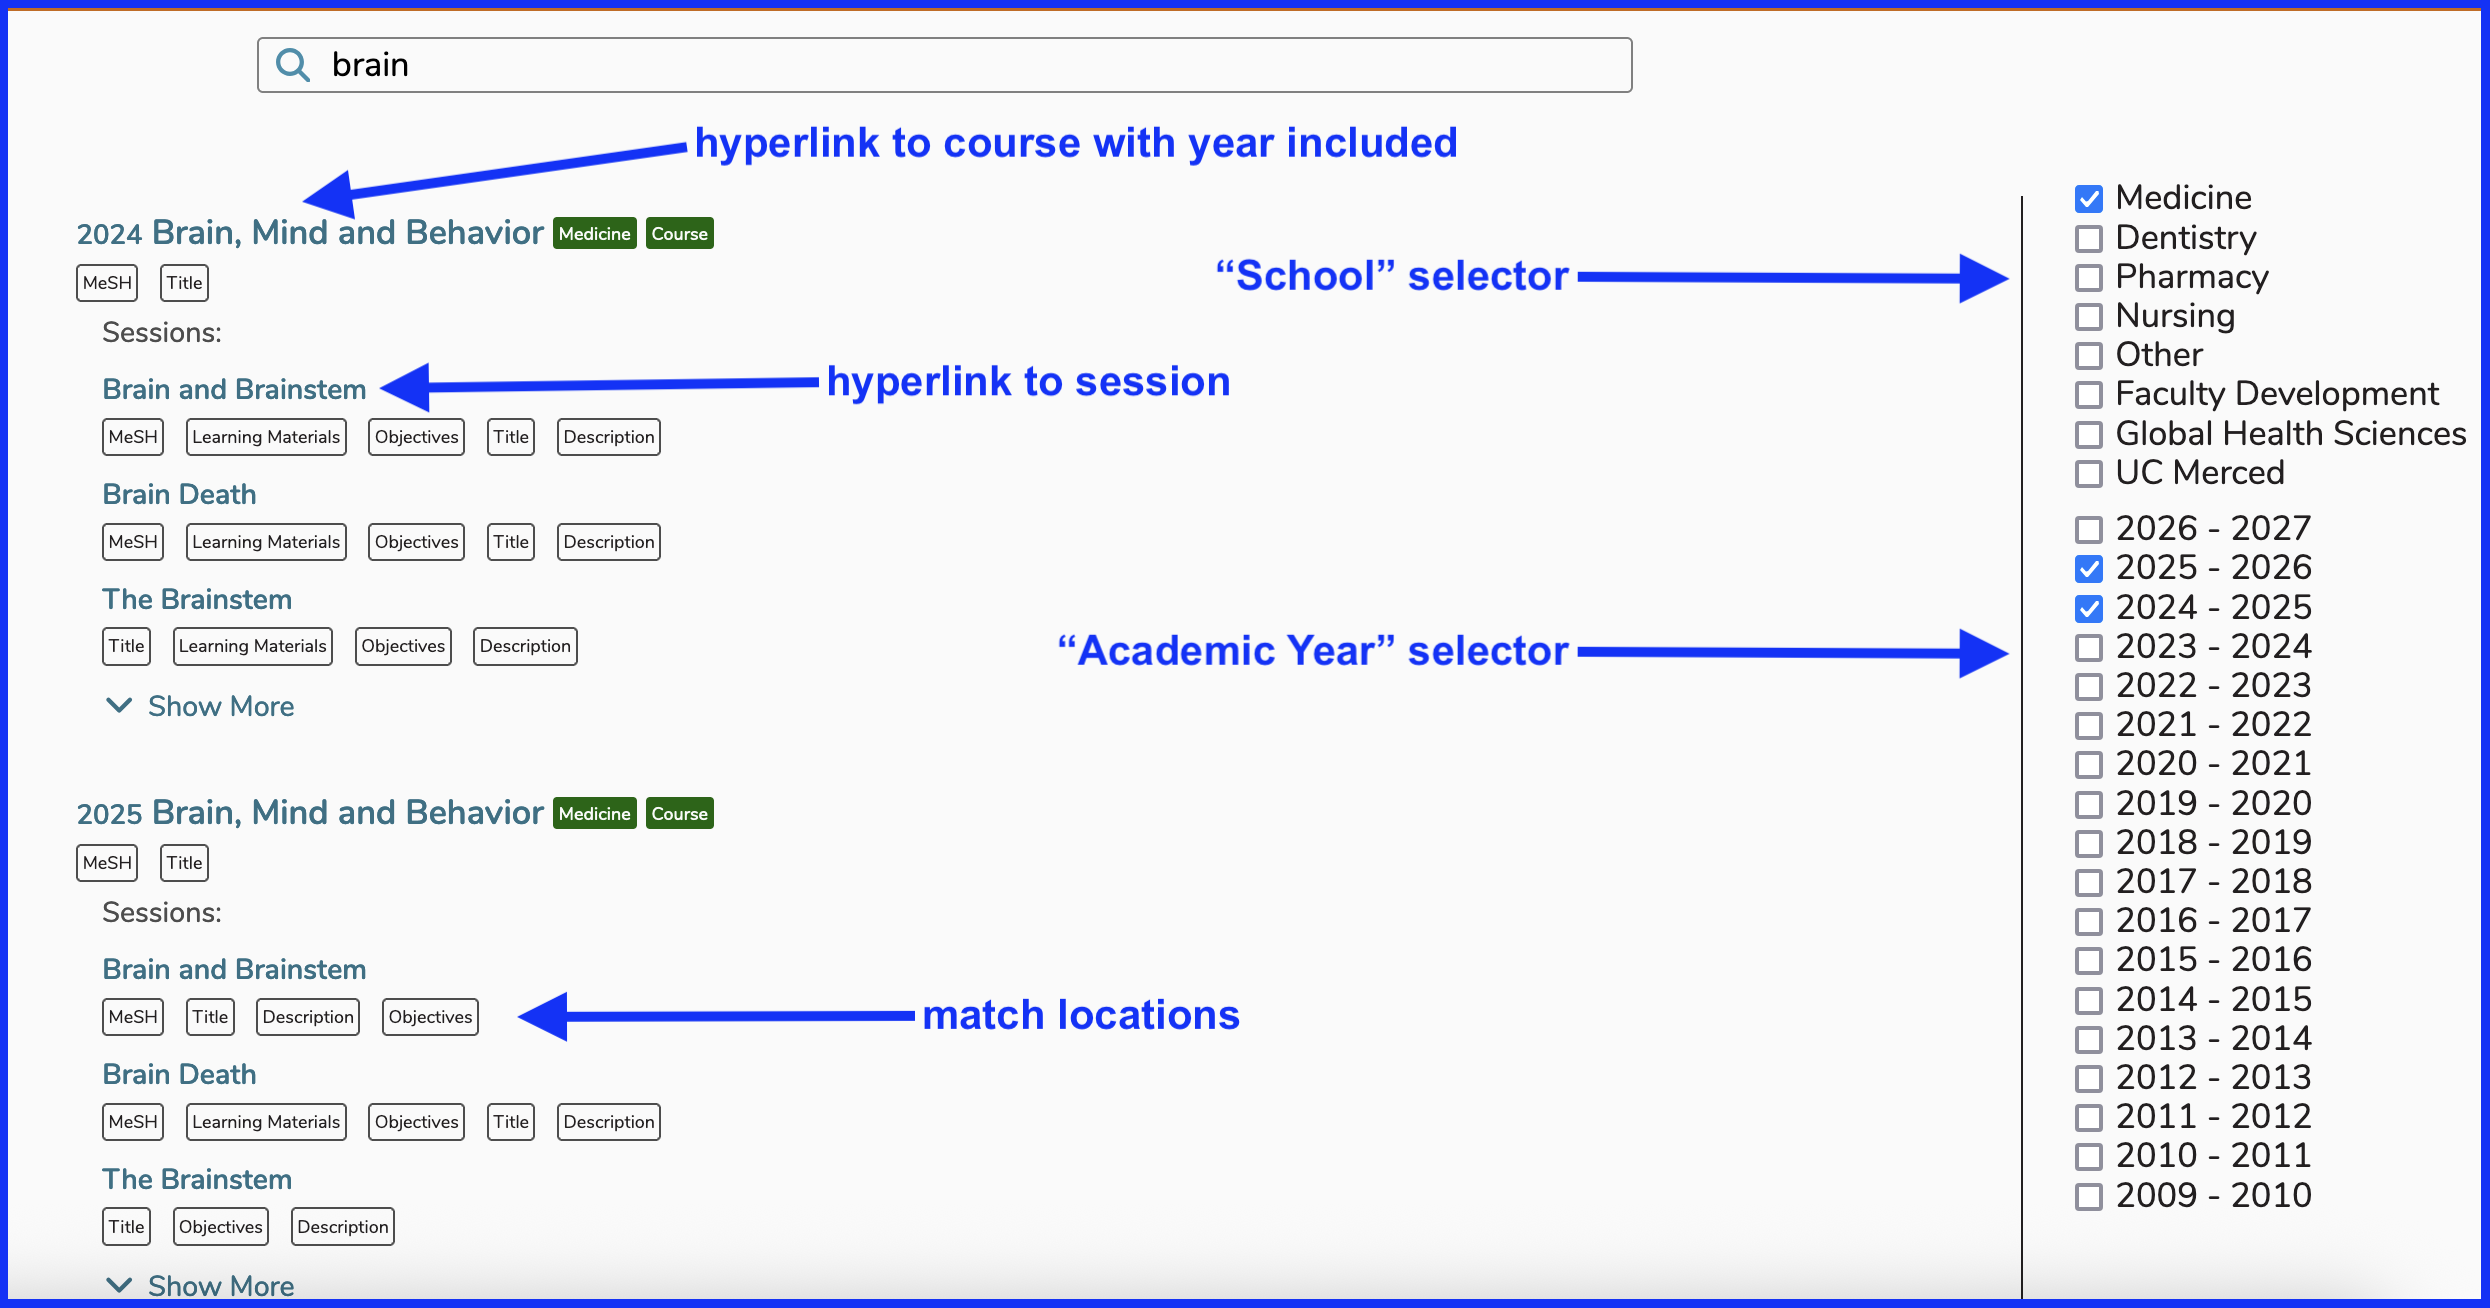
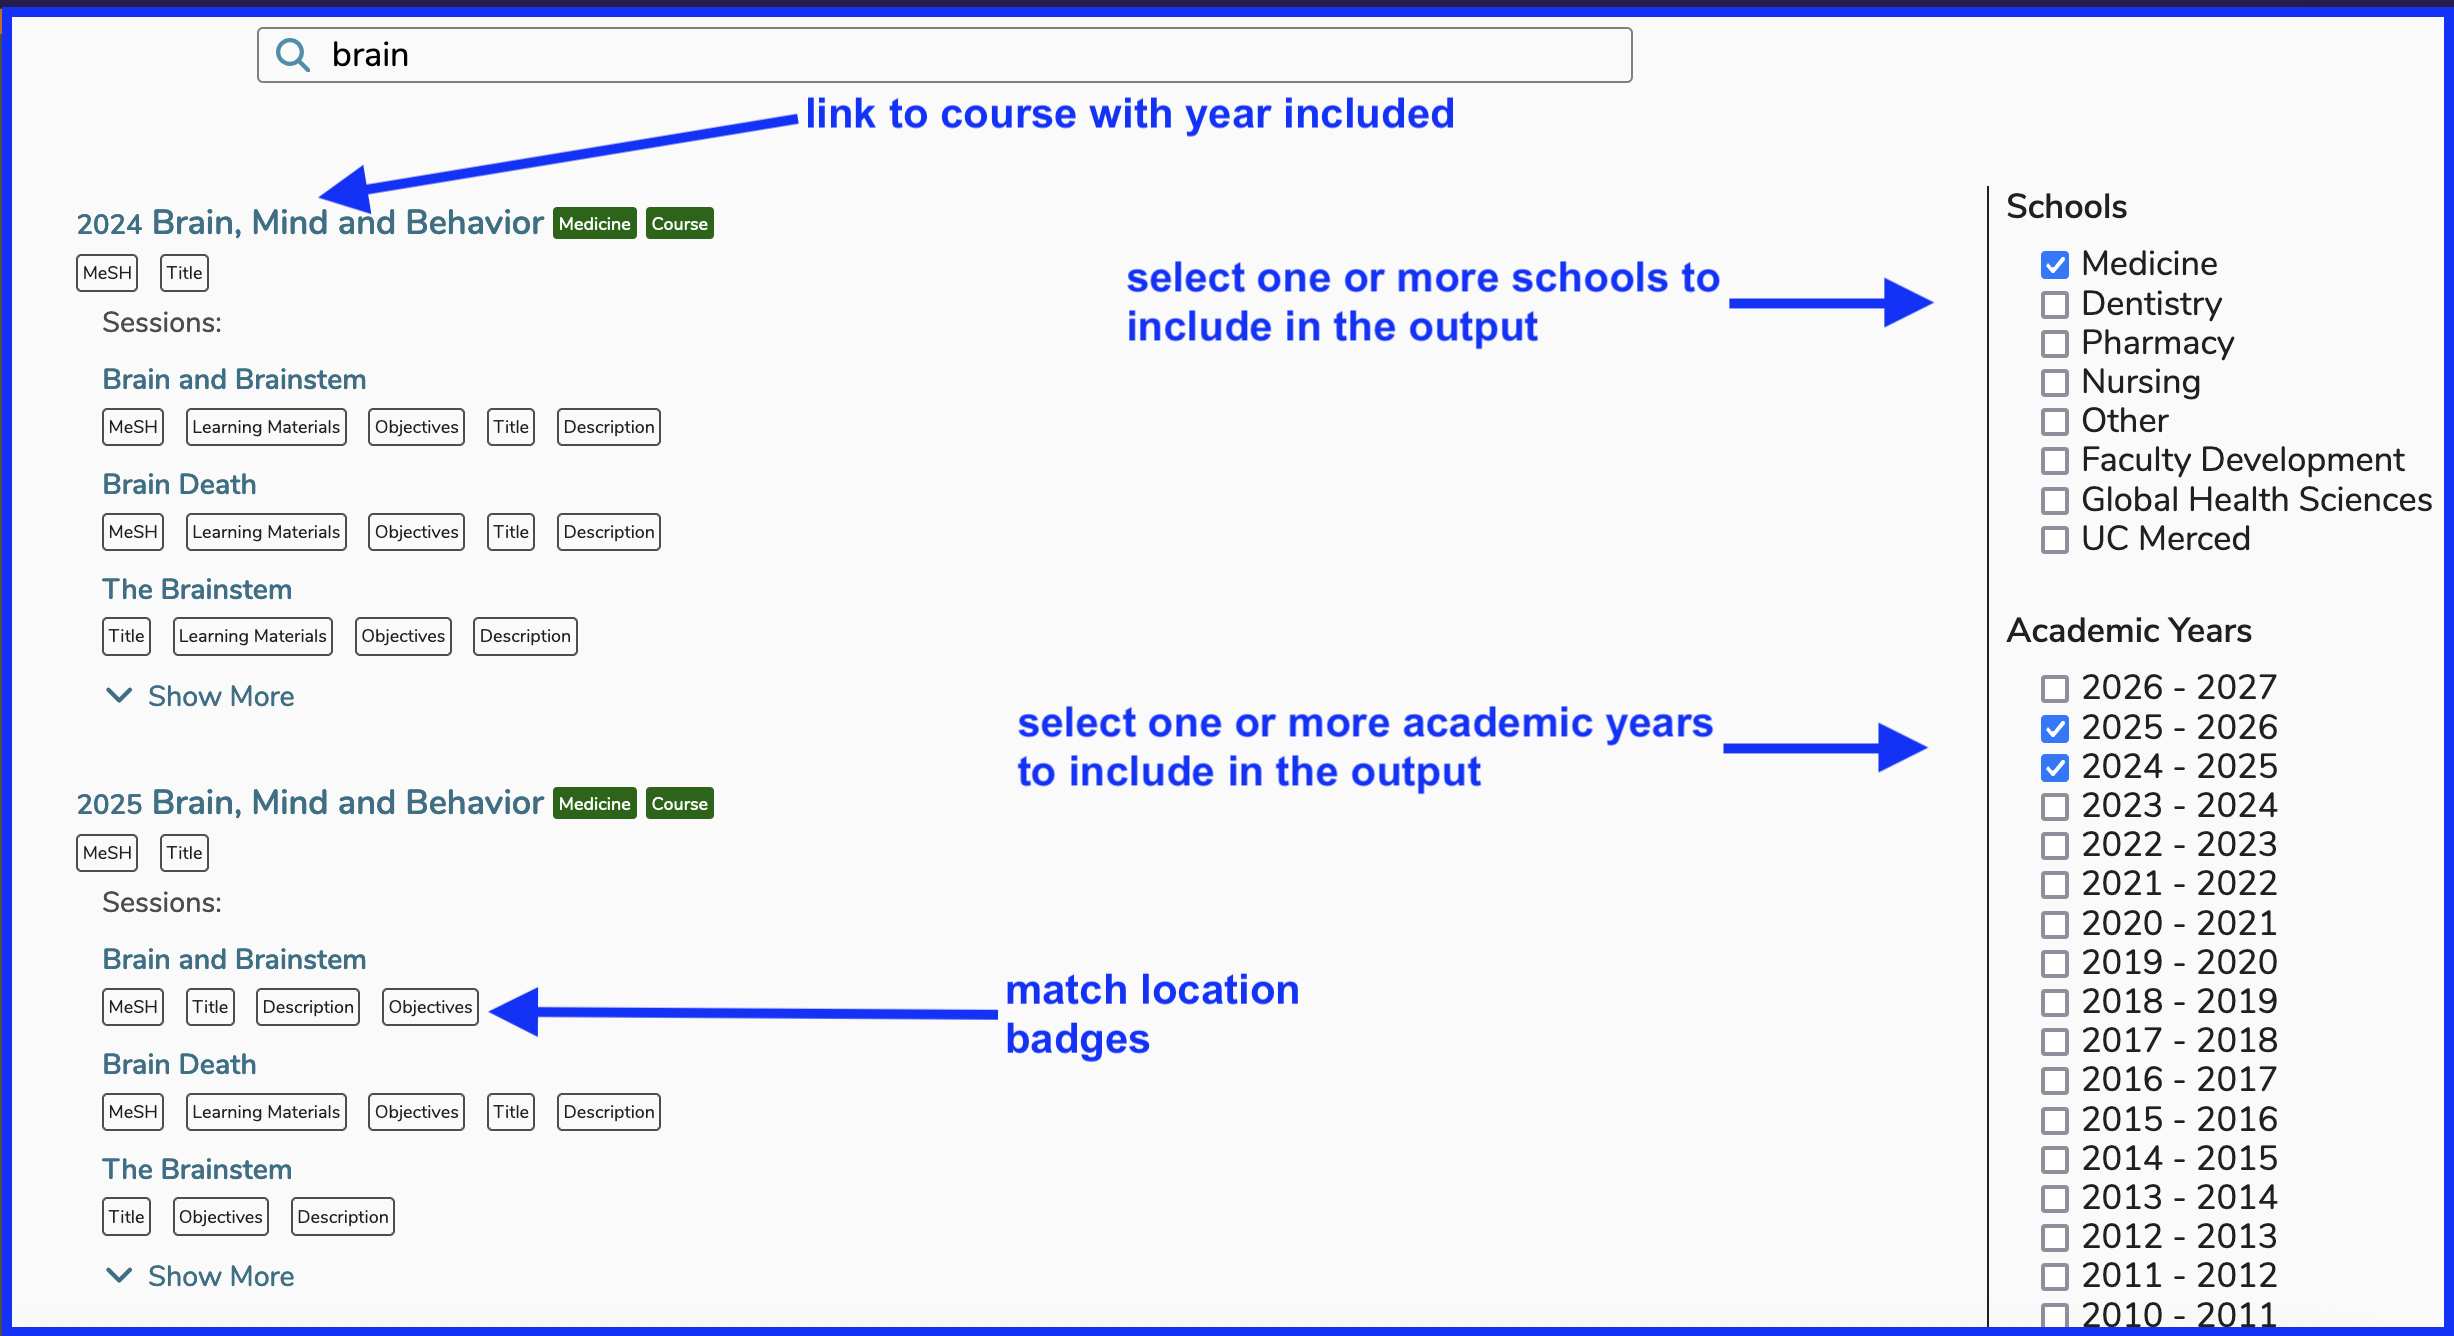
image replaced - text captions updated

Changed region(s): [[0.031, 0.0612, 0.991, 1.0], [0.0, 0.581, 0.5265, 1.0], [0.0, 0.0, 1.0, 0.0612]]

diff --git a/dashboard/search.md b/dashboard/search.md
@@ -7,7 +7,7 @@ description:
 
 **NOTE**: Global Search is not currently available to users who are students and do not have any higher-level permissions or perform instructional or other non-learner functions in Ilios. This may change in the future.
 
-![Global Search on the Dashboard](../images/global_search/global_search_start.png)
+![global search start](../images/global_search/global_search_start.png)
 
 The search box is located at the location specified above. If fewer than three characters are entered, the search will not be performed. A `"keep typing..."` message will appear adviding that the minimum character entry has not been reached. After confirming a search by clicking on one of the suggedted values, the search box will move down to a more central location. Refer to [Search Results](https://iliosproject.gitbook.io/ilios-user-guide/dashboard/search#search-results).
 
